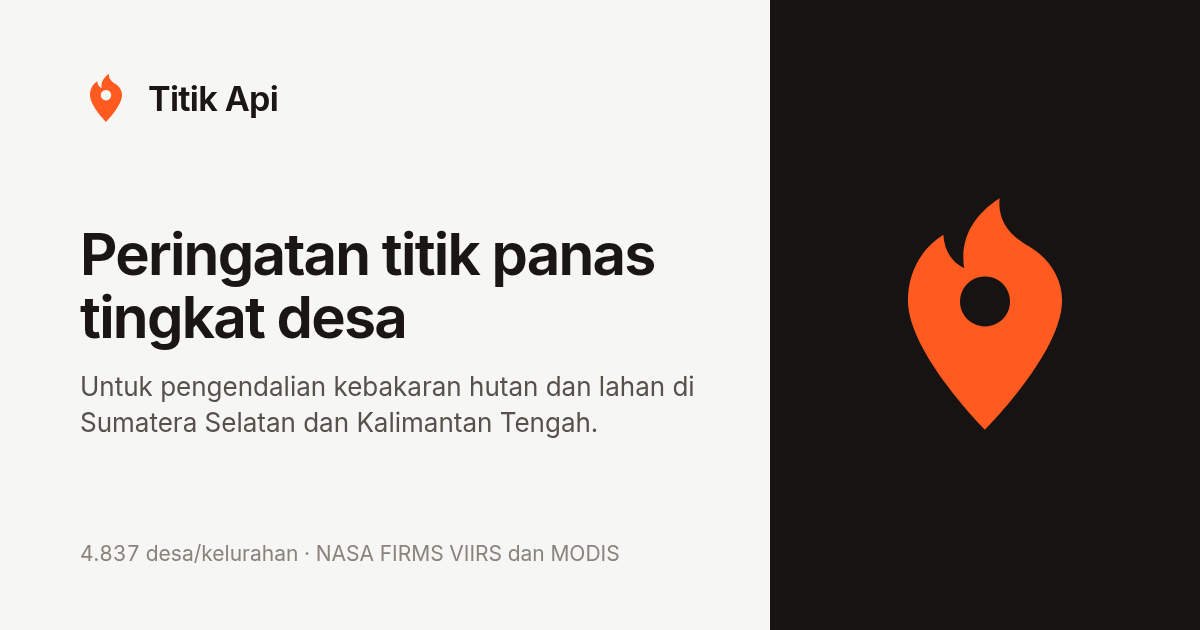
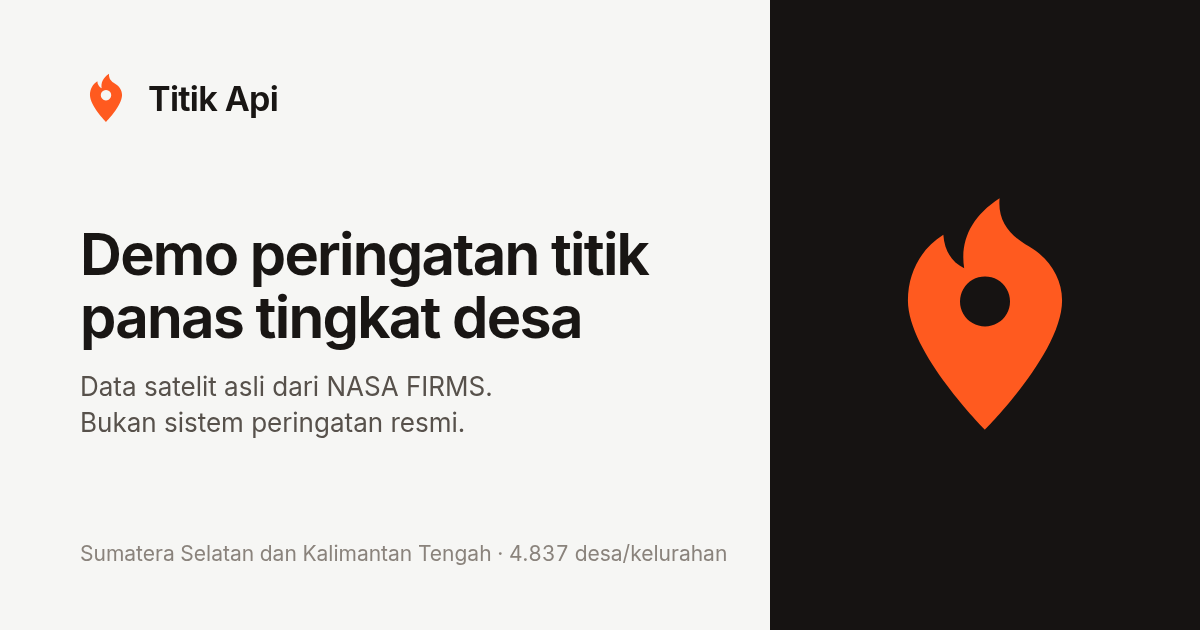
fix(web): the preview image and the installed app say demo too
og.png, which link previews show large, said "Peringatan titik panas
tingkat desa" with no word of a demo. It now reads "Demo peringatan
titik panas tingkat desa" over "Data satelit asli dari NASA FIRMS. Bukan
sistem peringatan resmi.", rendered again with e2e/og.mjs. The manifest's
name and description, which install prompts show, say demo the way the
page title and description do; the manifest moved to src/manifest.ts so
a test can read it. og:site_name is "Titik Api · demo portofolio".

Changed region(s): [[0.0617, 0.3619, 0.555, 0.573], [0.0617, 0.573, 0.5858, 0.6937], [0.0617, 0.8444, 0.6167, 0.9048]]

diff --git a/apps/web/src/web.test.ts b/apps/web/src/web.test.ts
@@ -9,6 +9,8 @@ import { fwiLabel, riskText } from './map/risk';
 import { windText } from './components/incident/wind';
 import { areaText } from './components/incident/area';
 import { openMeteoText } from './components/OpenMeteo';
+import { manifest } from './manifest';
+import indexHtml from '../index.html?raw';
 
 describe('field helpers', () => {
   it('gives distance and direction to the hotspot without a network', () => {
@@ -98,5 +100,21 @@ describe('two languages', () => {
         expect(en, name).toEqual(id);
       }
     }
+  });
+});
+
+describe('what the site says about itself', () => {
+  const meta = (attribute: string) => new RegExp(`<meta ${attribute} content="([^"]*)"`).exec(indexHtml)?.[1] ?? '';
+
+  it('says demo in the title, every link preview and the installed app, and not an official warning system', () => {
+    const title = /<title>([^<]*)<\/title>/.exec(indexHtml)?.[1] ?? '';
+    for (const [name, value] of Object.entries({ title, ogTitle: meta('property="og:title"'), siteName: meta('property="og:site_name"'), manifest: manifest.name ?? '' })) {
+      expect(value, name).toMatch(/\bdemo\b/i);
+    }
+    for (const [name, value] of Object.entries({ description: meta('name="description"'), ogDescription: meta('property="og:description"'), manifest: manifest.description ?? '' })) {
+      expect(value, name).toMatch(/^Demo portofolio /);
+      expect(value, name).toMatch(/Bukan sistem peringatan resmi\.$/);
+    }
+    expect(meta('property="og:image"')).toBe('https://titik-api.mrramdn.com/og.png');
   });
 });

diff --git a/apps/web/vite.config.ts b/apps/web/vite.config.ts
@@ -1,6 +1,7 @@
 import { defineConfig } from 'vite';
 import react from '@vitejs/plugin-react';
 import { VitePWA } from 'vite-plugin-pwa';
+import { manifest } from './src/manifest';
 
 const api = process.env.API_URL ?? 'http://localhost:3000';
 
@@ -14,22 +15,7 @@ export default defineConfig({
       registerType: 'autoUpdate',
       injectRegister: false,
       injectManifest: { globPatterns: ['**/*.{js,css,html,svg,png,woff2,webmanifest}'], maximumFileSizeToCacheInBytes: 4 * 1024 * 1024 },
-      manifest: {
-        name: 'Titik Api · peringatan titik panas tingkat desa',
-        short_name: 'Titik Api',
-        description: 'Peringatan titik panas tingkat desa untuk pengendalian kebakaran hutan dan lahan di Sumatera Selatan dan Kalimantan Tengah.',
-        lang: 'id',
-        start_url: '/',
-        scope: '/',
-        display: 'standalone',
-        background_color: '#161312',
-        theme_color: '#161312',
-        icons: [
-          { src: '/icons/icon-192.png', sizes: '192x192', type: 'image/png' },
-          { src: '/icons/icon-512.png', sizes: '512x512', type: 'image/png' },
-          { src: '/icons/icon-maskable-512.png', sizes: '512x512', type: 'image/png', purpose: 'maskable' },
-        ],
-      },
+      manifest,
       devOptions: { enabled: false },
     }),
   ],

diff --git a/apps/web/src/manifest.ts b/apps/web/src/manifest.ts
@@ -1,0 +1,20 @@
+// The web app manifest (vite-plugin-pwa writes it as manifest.webmanifest), apart from vite.config.ts so a test can read
+// it. An installed app says it is a demo, as the page title and the link previews do.
+import type { ManifestOptions } from 'vite-plugin-pwa';
+
+export const manifest: Partial<ManifestOptions> = {
+  name: 'Titik Api · demo dengan data satelit asli',
+  short_name: 'Titik Api',
+  description: 'Demo portofolio peringatan titik panas tingkat desa di Sumatera Selatan dan Kalimantan Tengah, dengan data satelit asli NASA FIRMS. Bukan sistem peringatan resmi.',
+  lang: 'id',
+  start_url: '/',
+  scope: '/',
+  display: 'standalone',
+  background_color: '#161312',
+  theme_color: '#161312',
+  icons: [
+    { src: '/icons/icon-192.png', sizes: '192x192', type: 'image/png' },
+    { src: '/icons/icon-512.png', sizes: '512x512', type: 'image/png' },
+    { src: '/icons/icon-maskable-512.png', sizes: '512x512', type: 'image/png', purpose: 'maskable' },
+  ],
+};

diff --git a/apps/web/index.html b/apps/web/index.html
@@ -8,6 +8,7 @@
     <meta property="og:title" content="Titik Api · demo dengan data satelit asli" />
     <meta property="og:description" content="Demo portofolio peringatan titik panas tingkat desa, dengan data satelit asli NASA FIRMS. Bukan sistem peringatan resmi." />
     <meta property="og:type" content="website" />
+    <meta property="og:site_name" content="Titik Api · demo portofolio" />
     <meta property="og:image" content="https://titik-api.mrramdn.com/og.png" />
     <meta property="og:image:width" content="1200" />
     <meta property="og:image:height" content="630" />
